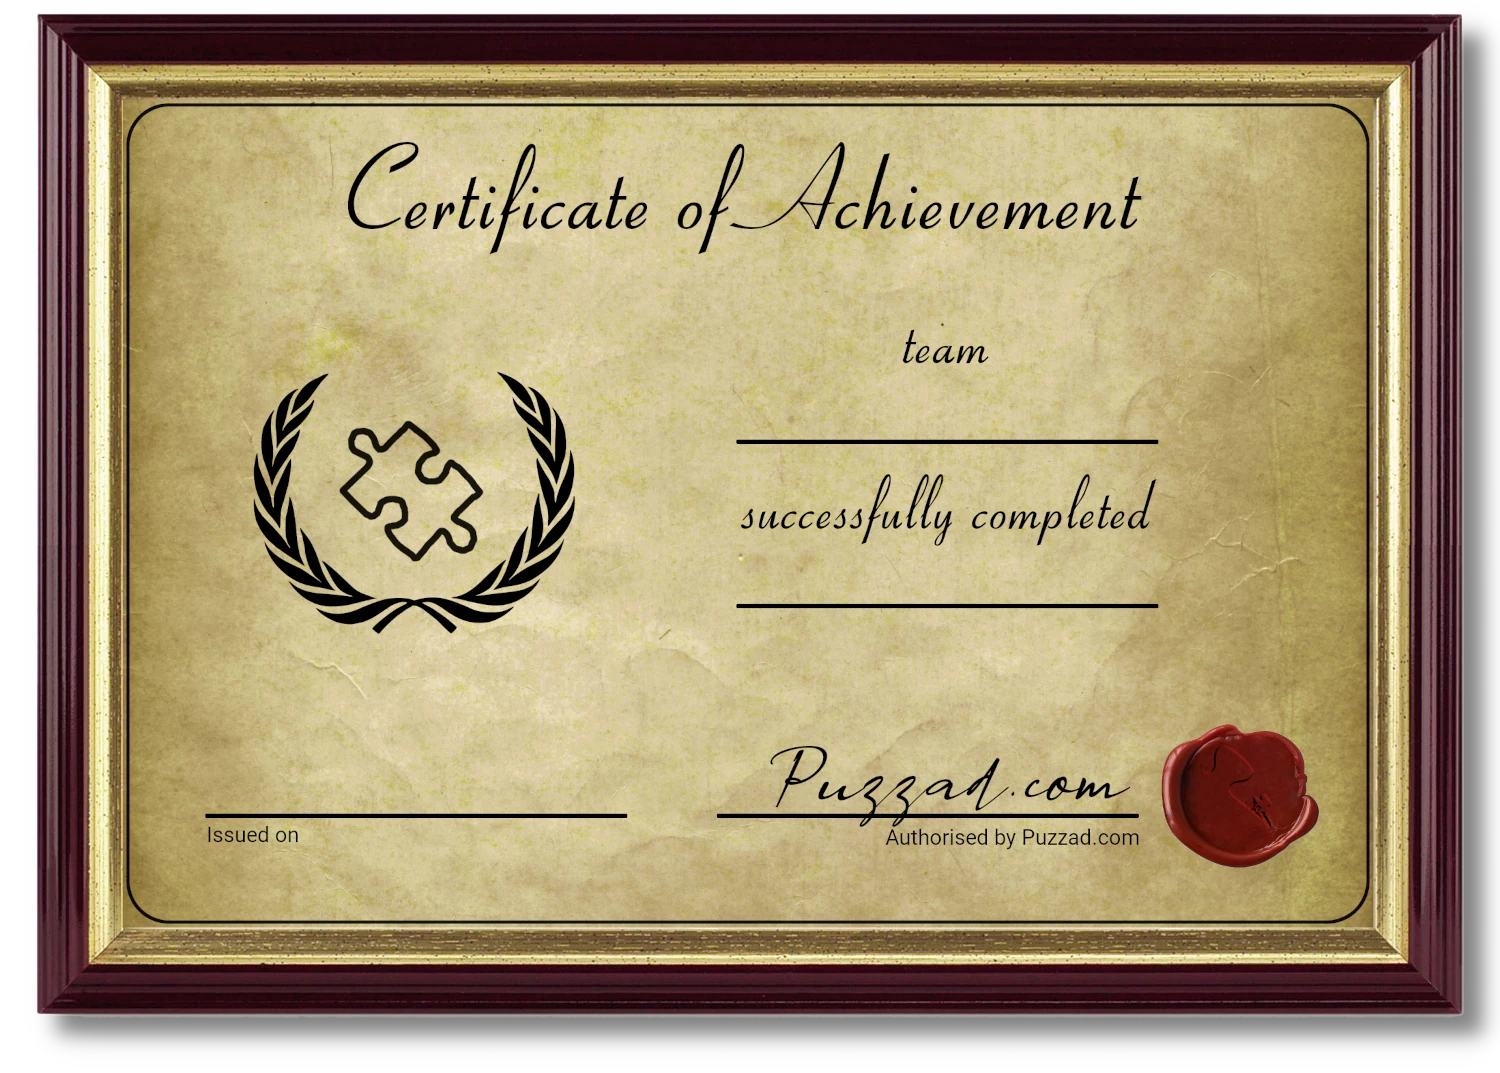
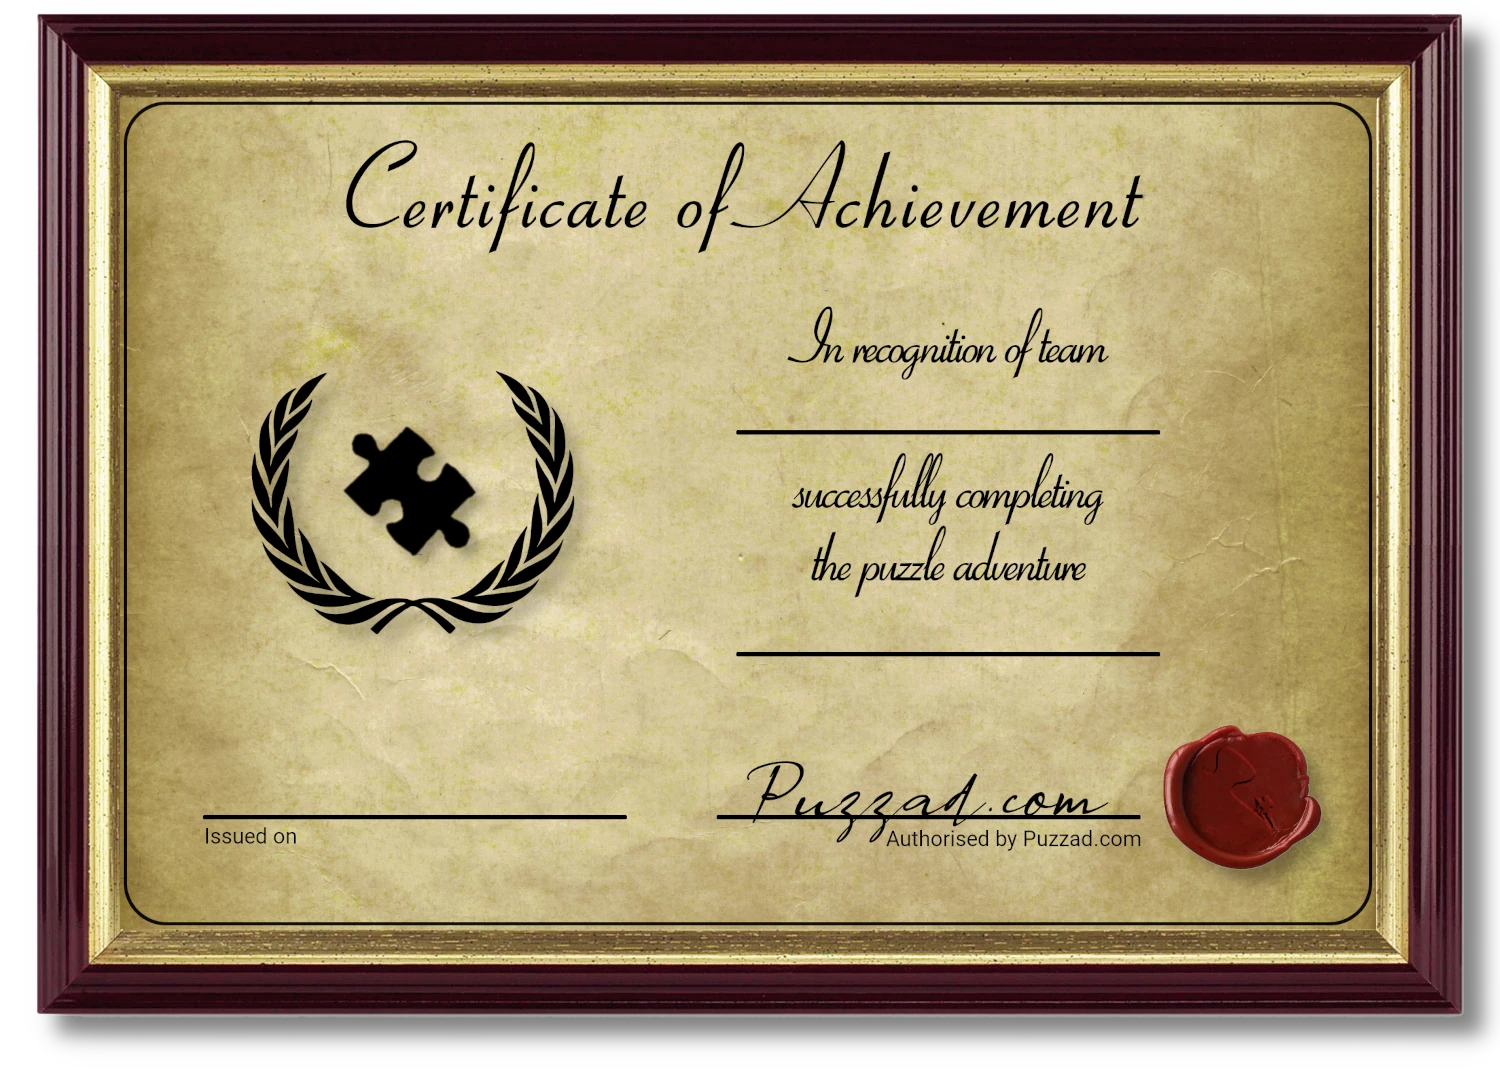
Certificate fiddling

diff --git a/src/components/Certificate.svelte b/src/components/Certificate.svelte
@@ -18,12 +18,12 @@
     canvas.height = image.height
     const ctx = canvas.getContext('2d')
     ctx.drawImage(image, 0, 0)
-    ctx.font = '28px serif'
+    ctx.font = '32px serif'
     ctx.textAlign = 'center'
-    ctx.fillText(teamName, 944, 430, 420)
-    ctx.fillText(adventureName, 944, 595, 420)
+    ctx.fillText(teamName, 944, 425, 420)
+    ctx.fillText(adventureName, 944, 648, 420)
     ctx.fillText((new Date(completionDate)).toLocaleDateString('en-gb',
-        {weekday: 'long', year: 'numeric', month: 'long', day: 'numeric'}), 415, 805, 420)
+        {weekday: 'long', year: 'numeric', month: 'long', day: 'numeric'}), 415, 811, 420)
     return canvas.toDataURL('image/webp')
   })
 </script>
